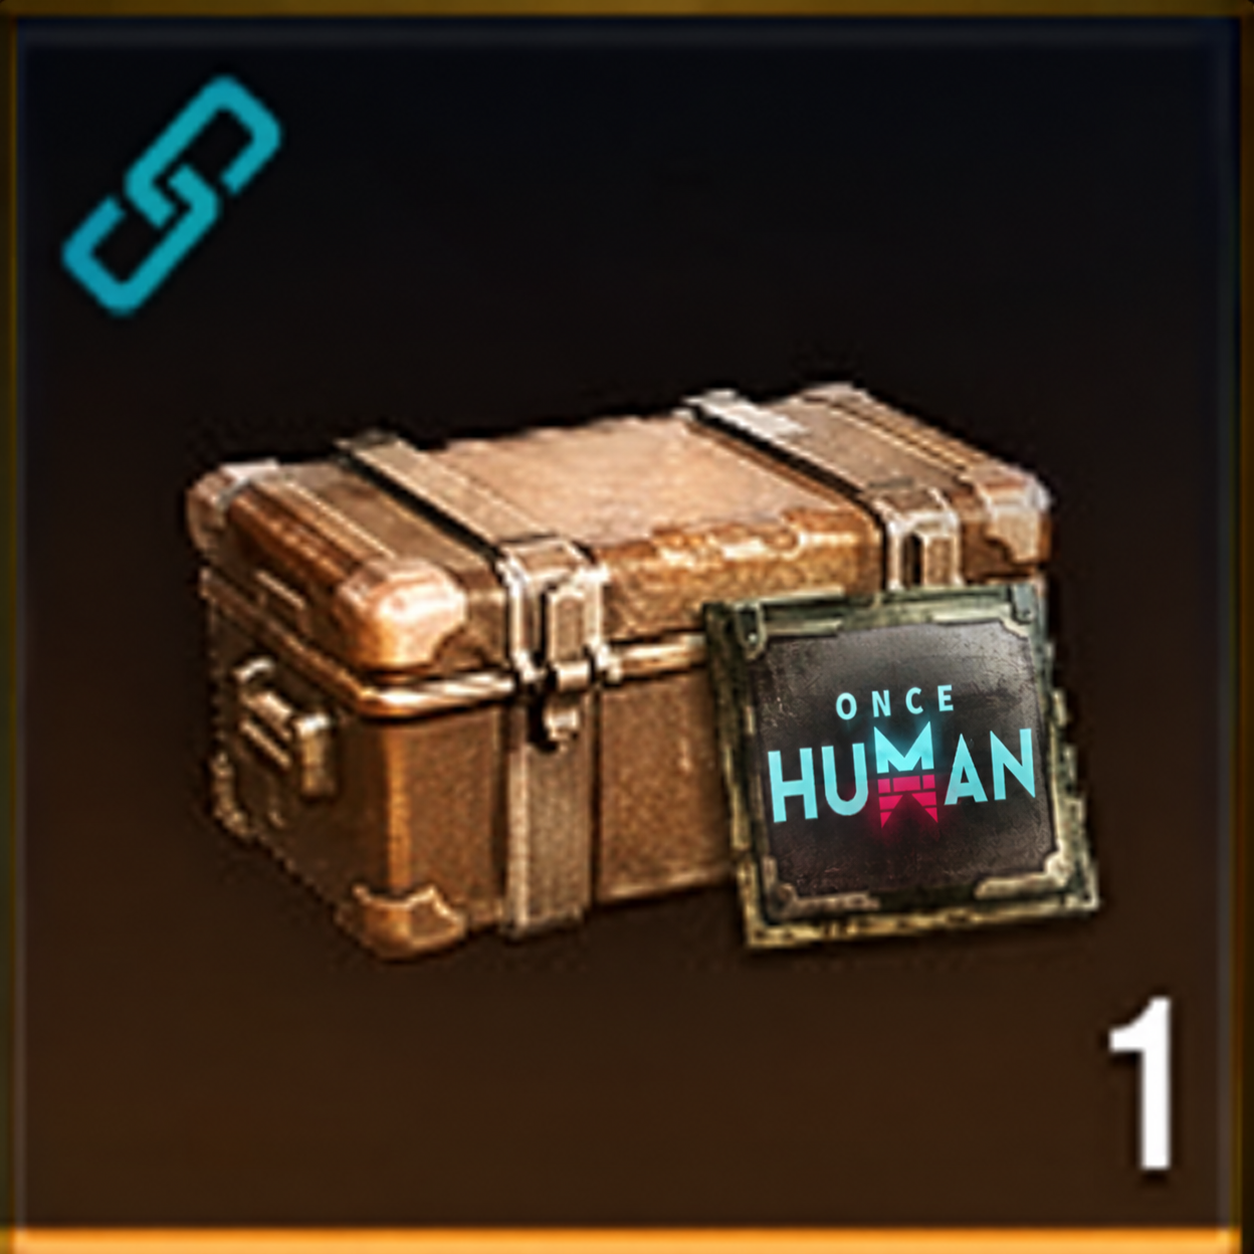
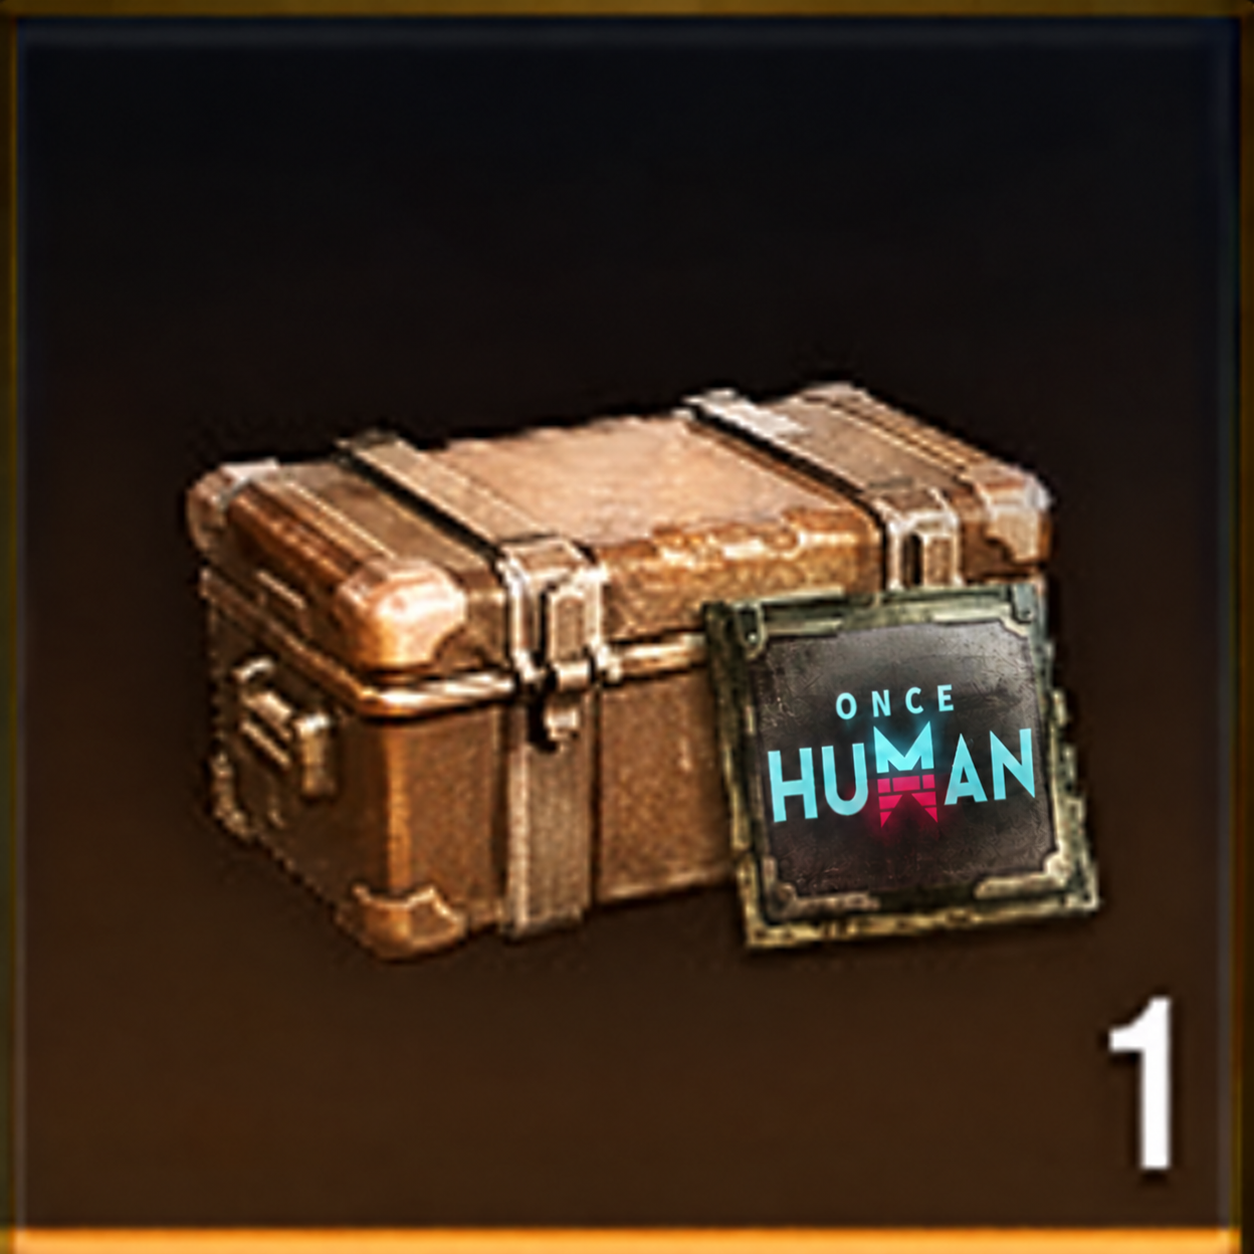
Sincronizar ciclo y retirar enlace visual

Changed region(s): [[0.0311, 0.0622, 0.2488, 0.2488]]

diff --git a/src/storage.ts b/src/storage.ts
@@ -1,6 +1,6 @@
 import defaultCatalog from "../catalog/visions.json";
 import type { Catalog, PersistedState } from "./model";
-import { validateCatalog } from "./model";
+import { VISION_CYCLE_WAIT_STARTED_AT, validateCatalog } from "./model";
 
 const STORAGE_KEY = "caja-fantasma.once-human.state.v1";
 
@@ -14,13 +14,13 @@ export function initialState(): PersistedState {
       selectedVisionId: "gravity",
       waitMinutes: 30,
       activeMinutes: 30,
-      phaseStartedAt: new Date().toISOString(),
+      phaseStartedAt: VISION_CYCLE_WAIT_STARTED_AT,
       phase: "waiting",
       overlayEnabled: false,
       notificationsEnabled: true,
       voiceNotificationsEnabled: true,
       voiceLeadMinutes: 5,
-      timingPresetVersion: 1,
+      timingPresetVersion: 2,
       autoStartEnabled: true,
       ownerMode: false,
     },
@@ -33,12 +33,14 @@ export function loadState(): PersistedState {
     if (!parsed || parsed.schemaVersion !== 1 || !validateCatalog(parsed.catalog)) return initialState();
     const fresh = initialState();
     const settings = { ...fresh.settings, ...(parsed.settings ?? {}) };
-    if (!parsed.settings?.timingPresetVersion) {
+    if ((parsed.settings?.timingPresetVersion ?? 0) < 2) {
       settings.waitMinutes = 30;
       settings.activeMinutes = 30;
       settings.phase = "waiting";
-      settings.phaseStartedAt = new Date().toISOString();
-      settings.timingPresetVersion = 1;
+      settings.phaseStartedAt = VISION_CYCLE_WAIT_STARTED_AT;
+      settings.lastNotificationPhaseStartedAt = undefined;
+      settings.lastVoiceAlertPhaseStartedAt = undefined;
+      settings.timingPresetVersion = 2;
     }
     return {
       ...fresh,

diff --git a/scripts/domain-check.ts b/scripts/domain-check.ts
@@ -1,6 +1,6 @@
 import assert from "node:assert/strict";
 import catalog from "../catalog/visions.json" with { type: "json" };
-import { BASELINE_BOX_POINTS, boxStatistics, buildBreakdown, computeCycle, splitPlatformCarryover, validateCatalog, type BoxRecord, type PointAction, type Settings } from "../src/model.ts";
+import { BASELINE_BOX_POINTS, VISION_CYCLE_WAIT_STARTED_AT, boxStatistics, buildBreakdown, computeCycle, splitPlatformCarryover, validateCatalog, type BoxRecord, type PointAction, type Settings } from "../src/model.ts";
 
 assert.equal(validateCatalog(catalog), true, "El catálogo incluido debe ser válido.");
 assert.equal(catalog.proActivities.find((item) => item.id === "pro-monolith-boss")?.points, 1);
@@ -34,6 +34,10 @@ const settings: Settings = {
 assert.deepEqual(computeCycle(settings, Date.parse("2026-09-10T10:15:00.000Z")).phase, "waiting");
 assert.deepEqual(computeCycle(settings, Date.parse("2026-09-10T10:40:00.000Z")).phase, "active");
 assert.deepEqual(computeCycle(settings, Date.parse("2026-09-10T11:10:00.000Z")).phase, "waiting");
+const synchronizedSettings = { ...settings, phaseStartedAt: VISION_CYCLE_WAIT_STARTED_AT };
+const synchronizedSnapshot = computeCycle(synchronizedSettings, Date.parse(VISION_CYCLE_WAIT_STARTED_AT) + 3 * 60_000);
+assert.equal(synchronizedSnapshot.phase, "waiting");
+assert.equal(synchronizedSnapshot.remainingMs, 27 * 60_000);
 
 const actions: PointAction[] = [
   { id: "1", activityId: "gravity-whale", activityName: "Ballena", visionId: "gravity", visionName: "Gravedad", points: 1, occurredAt: "2026-09-10T10:00:00Z" },

diff --git a/src/model.ts b/src/model.ts
@@ -76,10 +76,12 @@ export type CycleSnapshot = {
   phaseEndsAt: string;
 };
 
-export const APP_VERSION = "1.1.0";
+export const APP_VERSION = "1.1.1";
 export const AUTHOR = "OscarD0823";
 export const REPOSITORY_URL = "https://github.com/OscarD0823/Caja-Fantasma";
 export const REMOTE_CATALOG_URL = "https://raw.githubusercontent.com/OscarD0823/Caja-Fantasma/main/catalog/visions.json";
+// A las 15:55:59 de Colombia del 10/09/2026 faltaban 27 minutos para la fase activa.
+export const VISION_CYCLE_WAIT_STARTED_AT = "2026-09-10T20:52:59.452Z";
 export const BASELINE_BOX_POINTS = [1209, 762, 966, 1143, 320, 797, 1180, 909, 1028, 1098, 408, 889, 1447, 1211, 1333, 588] as const;
 
 export function createId(prefix: string) {

diff --git a/src/App.tsx b/src/App.tsx
@@ -69,6 +69,15 @@ const TABS: Array<{ id: TabId; label: string; icon: typeof Box }> = [
 
 const CHANGELOG = [
   {
+    version: "1.1.1",
+    date: "10 de septiembre de 2026",
+    title: "Ciclo sincronizado",
+    items: [
+      "La imagen de la caja ya no muestra el símbolo azul de enlace.",
+      "El ciclo se sincronizó cuando faltaban 27 minutos para comenzar y continuará alternando 30 minutos activo y 30 minutos en espera.",
+    ],
+  },
+  {
     version: "1.1.0",
     date: "10 de septiembre de 2026",
     title: "Promedio real y alertas por voz",

diff --git a/src/assets.ts b/src/assets.ts
@@ -1,4 +1,4 @@
 import phantomCrateImage from "./assets/phantom-crate-once-human.png";
 
-// Edición de la referencia aportada por OscarD0823: la tarjeta del arma se sustituyó por la marca del juego.
+// Edición de la referencia aportada por OscarD0823: sin enlace y con la marca del juego en vez de la tarjeta del arma.
 export const PHANTOM_CRATE_IMAGE = phantomCrateImage;

diff --git a/NOTAS-VERSION-1.1.1.md b/NOTAS-VERSION-1.1.1.md
@@ -1,0 +1,5 @@
+# Caja Fantasma 1.1.1
+
+- Eliminado el símbolo azul de enlace de la imagen de la Caja Fantasma.
+- Temporizador sincronizado usando la referencia indicada: a las 15:55:59 de Colombia faltaban 27 minutos para comenzar.
+- Después de esa referencia, el ciclo continúa automáticamente con 30 minutos activo y 30 minutos de espera.
